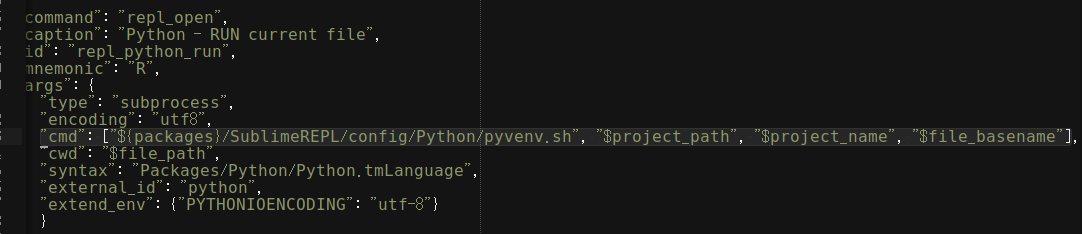
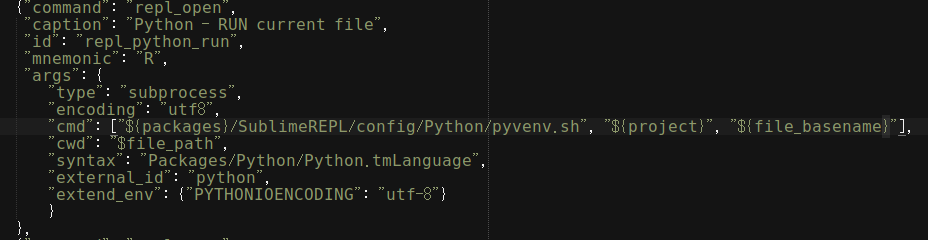
init12

Changed region(s): [[0.0, 0.0, 1.0, 0.8974], [0.0938, 0.9872, 0.125, 1.0]]

diff --git a/README.md b/README.md
@@ -15,7 +15,8 @@
 
 ## 配置:
 >		1:打开sublimerepl配置目录(sublime-text-3/Packages/SublimeREPL/config/Python/)
->		2:编辑Main.sublime-menu。修改其中id为：repl_python_run下的cmd，将内容修改为：cmd: [${packages}/SublimeREPL/config/Python/pyvenv.sh", "$project_path", "$project_name", "$file_basename"]
+>		2:编辑Main.sublime-menu。修改其中id为：repl_python_run下的cmd，将内容修改为："cmd": ["${packages}/SublimeREPL/config/Python/pyvenv.sh", "${project}", "${file_basename}"],
+
 >		3:创建pyvenv.sh shell脚本
 >		4:修改sublimerepl配置,打开“use_build_system_hack": true
 >		5:修改快捷键
